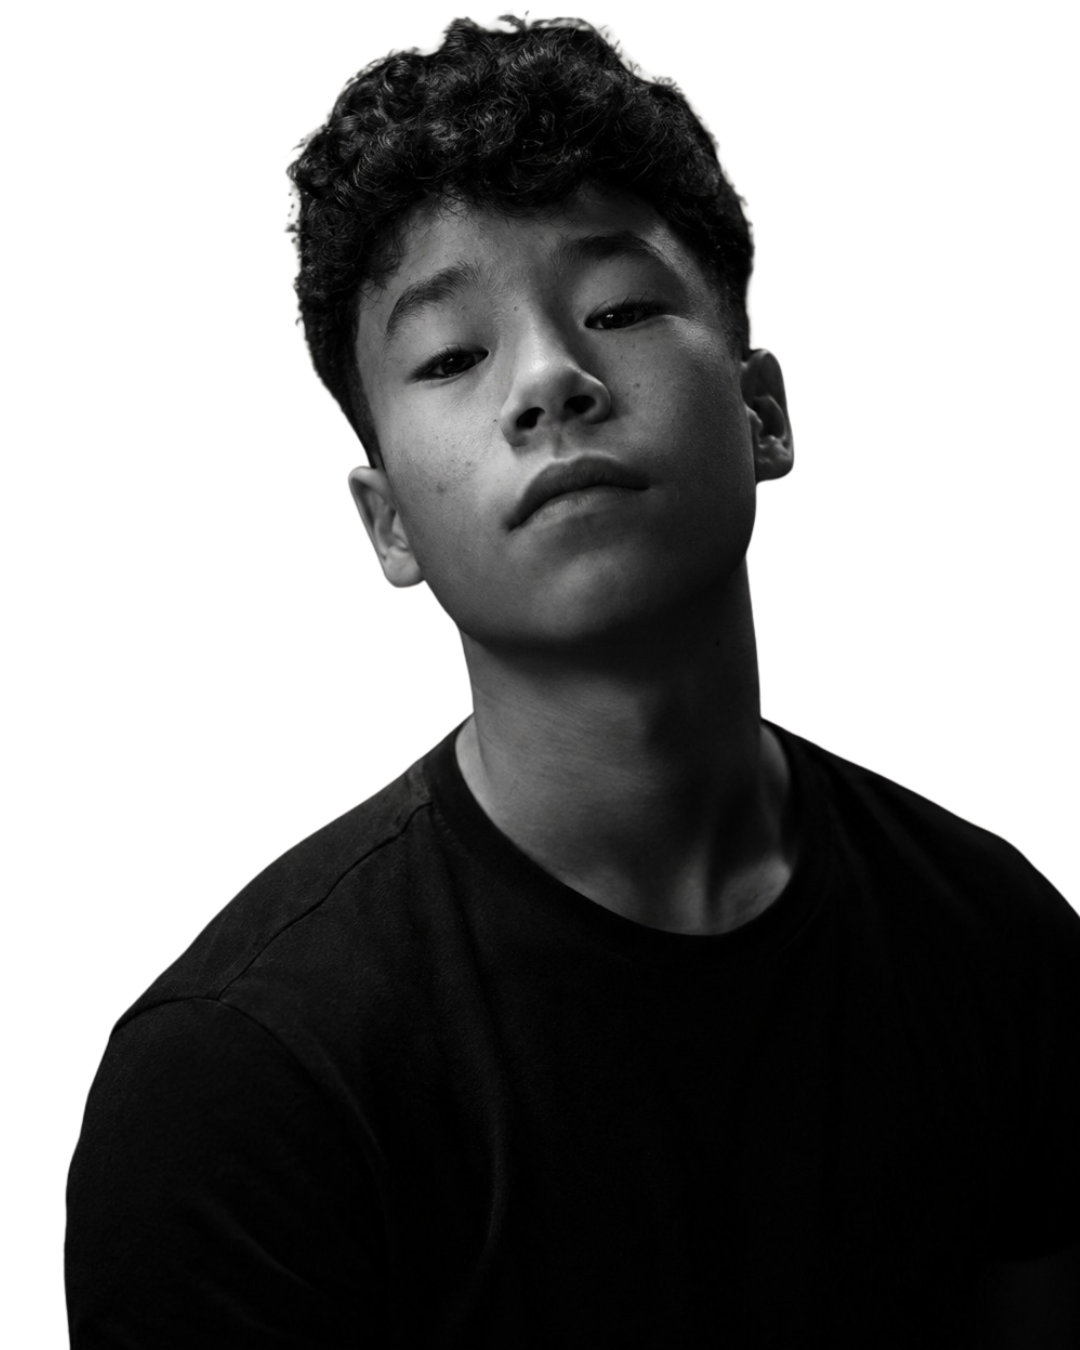
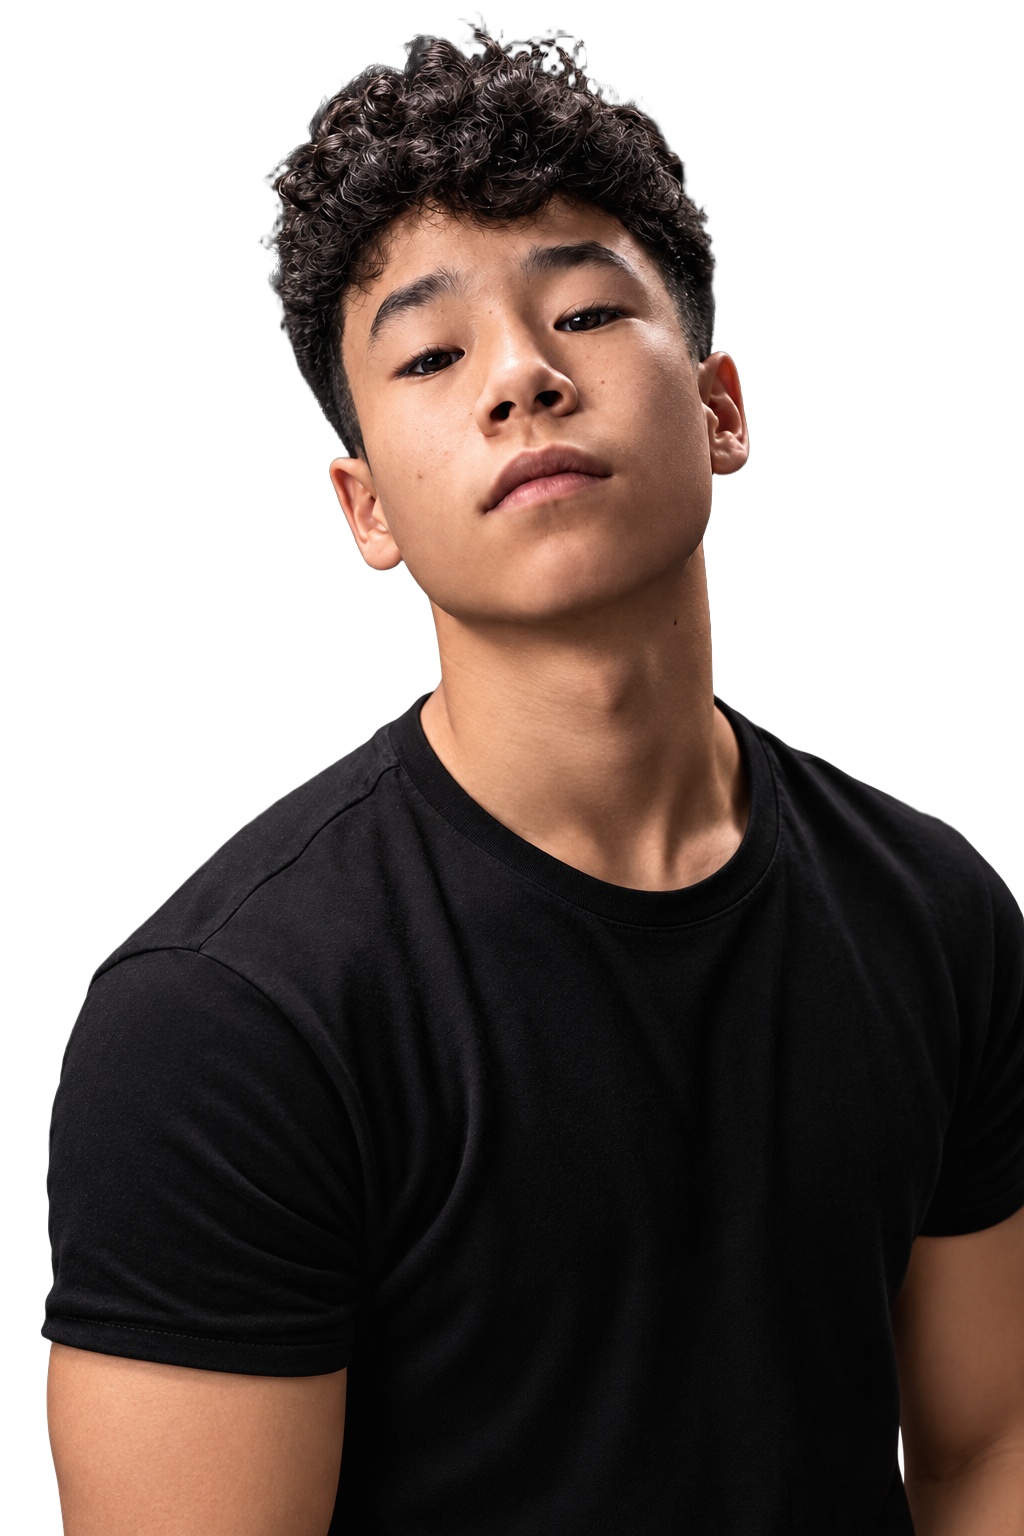
Troca foto do hero por versão sem fundo
Remove o fundo da nova foto enviada (recorte com transparência via
modelo u2net) e atualiza a referência/dimensões no index.html.

Claude-Session: https://claude.ai/code/session_01LW3q9k32EXhQKWSwtqYnyi

diff --git a/index.html b/index.html
@@ -150,7 +150,7 @@
         </div>
 
         <div class="hero-stage-photo" data-hero-item>
-          <img src="assets/hero-portrait.png" alt="Retrato de Artur Hiroki" width="1080" height="1350" loading="eager" decoding="async">
+          <img src="assets/hero-portrait.png" alt="Retrato de Artur Hiroki" width="1024" height="1536" loading="eager" decoding="async">
         </div>
 
         <div class="hero-corner hero-corner-bl" data-hero-item>
